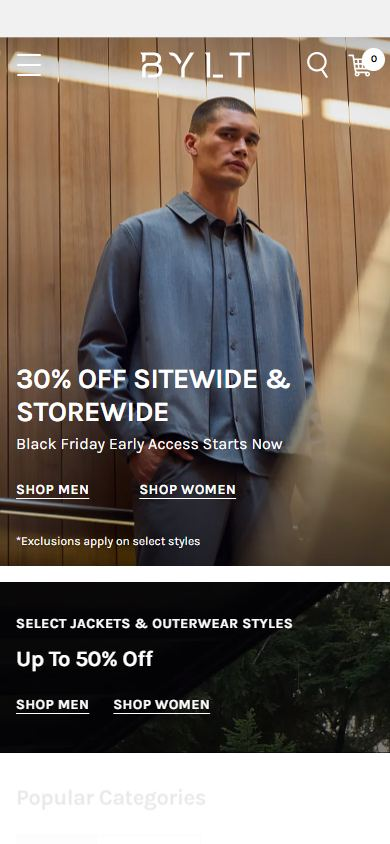
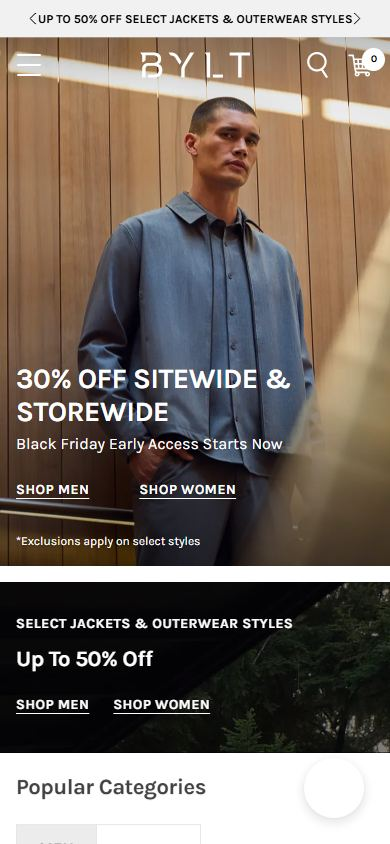
Publish 3 live forensic audit teaser(s)

Changed region(s): [[0.0923, 0.0, 0.9231, 0.0308], [0.0308, 0.9242, 0.5231, 0.955]]

diff --git a/audits/chubbiesshorts-com.html b/audits/chubbiesshorts-com.html
@@ -15,19 +15,19 @@
     </div>
 
     <div class="bfcm-alert">
-      <strong>Peak-Traffic Readiness Alert:</strong> Flagged on <code>chubbiesshorts.com</code> &mdash; 10 scripts • 1398ms DOM load. Fix these leaks before peak holiday traffic hits mobile checkout.
+      <strong>Peak-Traffic Readiness Alert:</strong> Flagged on <code>chubbiesshorts.com</code> &mdash; 13 scripts • 1141ms DOM load. Fix these leaks before peak holiday traffic hits mobile checkout.
     </div>
 
     <h1 class="audit-title">Forensic Conversion &amp; Speed Audit: chubbiesshorts.com</h1>
-    <p class="audit-subtitle">Target URL: <a href="https://www.chubbiesshorts.com/" target="_blank" rel="noopener">https://www.chubbiesshorts.com/</a> &bull; HTTP 200 &bull; Readiness Score: <strong class="audit-score">87/100</strong></p>
+    <p class="audit-subtitle">Target URL: <a href="https://www.chubbiesshorts.com/" target="_blank" rel="noopener">https://www.chubbiesshorts.com/</a> &bull; HTTP 200 &bull; Readiness Score: <strong class="audit-score">86/100</strong></p>
 
     <div class="audit-stats-grid">
-      <div class="audit-stat"><div class="audit-stat-k">DOM Content Loaded</div><div class="audit-stat-v">1398 ms</div></div>
-      <div class="audit-stat"><div class="audit-stat-k">External Scripts</div><div class="audit-stat-v">10</div></div>
+      <div class="audit-stat"><div class="audit-stat-k">DOM Content Loaded</div><div class="audit-stat-v">1141 ms</div></div>
+      <div class="audit-stat"><div class="audit-stat-k">External Scripts</div><div class="audit-stat-v">13</div></div>
       <div class="audit-stat"><div class="audit-stat-k">3rd-Party Hosts</div><div class="audit-stat-v">15</div></div>
-      <div class="audit-stat"><div class="audit-stat-k">Measured Payload</div><div class="audit-stat-v">53895 KB</div></div>
+      <div class="audit-stat"><div class="audit-stat-k">Measured Payload</div><div class="audit-stat-v">54682 KB</div></div>
       <div class="audit-stat"><div class="audit-stat-k">JSON-LD Schemas</div><div class="audit-stat-v">1</div></div>
-      <div class="audit-stat"><div class="audit-stat-k">Broken / No-Alt Imgs</div><div class="audit-stat-v">0 / 17</div></div>
+      <div class="audit-stat"><div class="audit-stat-k">Broken / No-Alt Imgs</div><div class="audit-stat-v">0 / 22</div></div>
       <div class="audit-stat"><div class="audit-stat-k">Mobile Overflow (390px)</div><div class="audit-stat-v">0 px</div></div>
       <div class="audit-stat"><div class="audit-stat-k">Stack Detected</div><div class="audit-stat-v">Shopify</div></div>
     </div>
@@ -35,9 +35,9 @@
     <div class="audit-card">
       <h2 class="audit-card-title">Top 3 Verified Findings (Measured in Chromium)</h2>
       <ol class="audit-findings-list">
-        <li>Script &amp; Third-Party Bloat: Measured 10 external scripts across 15 third-party domains (53895 KB transferred), extending DOM load to 1398 ms.</li>
-        <li>Media &amp; Accessibility Gaps: 0 broken image(s) (naturalWidth=0) and 17 image(s) without descriptive alt text detected across 37 DOM images.</li>
-        <li>Render Timing Opportunity: TTFB measured at 547 ms with 1900 ms full load; deferring non-critical embeds and hardening canonical/schema tags reduces checkout drop-off.</li>
+        <li>Script &amp; Third-Party Bloat: Measured 13 external scripts across 15 third-party domains (54682 KB transferred), extending DOM load to 1141 ms.</li>
+        <li>Media &amp; Accessibility Gaps: 0 broken image(s) (naturalWidth=0) and 22 image(s) without descriptive alt text detected across 43 DOM images.</li>
+        <li>Render Timing Opportunity: TTFB measured at 497 ms with 1550 ms full load; deferring non-critical embeds and hardening canonical/schema tags reduces checkout drop-off.</li>
       </ol>
       <p class="audit-quickwin"><strong>Fastest Engineering Win:</strong> Defer or inline non-critical third-party scripts and verify Product/Organization JSON-LD + image alt tags.</p>
     </div>
@@ -47,7 +47,7 @@
       <p class="audit-quickwin">Apply this verified snippet right away &mdash; zero strings attached:</p>
       <pre class="code-preview"><code>/* Free Instant Fix #1 for chubbiesshorts.com: Safe image &amp; CLS guard */
 img { max-width: 100%; height: auto; }
-/* Audit heavy scripts (10 detected) and move non-critical embeds to defer */</code></pre>
+/* Audit heavy scripts (13 detected) and move non-critical embeds to defer */</code></pre>
     </div>
 
     <div class="audit-card">

diff --git a/audits/byltbasics-com.html b/audits/byltbasics-com.html
@@ -15,17 +15,17 @@
     </div>
 
     <div class="bfcm-alert">
-      <strong>Peak-Traffic Readiness Alert:</strong> Flagged on <code>byltbasics.com</code> &mdash; 23 scripts • 1816ms DOM load. Fix these leaks before peak holiday traffic hits mobile checkout.
+      <strong>Peak-Traffic Readiness Alert:</strong> Flagged on <code>byltbasics.com</code> &mdash; 2038ms DOM load. Fix these leaks before peak holiday traffic hits mobile checkout.
     </div>
 
     <h1 class="audit-title">Forensic Conversion &amp; Speed Audit: byltbasics.com</h1>
-    <p class="audit-subtitle">Target URL: <a href="https://byltbasics.com/" target="_blank" rel="noopener">https://byltbasics.com/</a> &bull; HTTP 200 &bull; Readiness Score: <strong class="audit-score">81/100</strong></p>
+    <p class="audit-subtitle">Target URL: <a href="https://byltbasics.com/" target="_blank" rel="noopener">https://byltbasics.com/</a> &bull; HTTP 200 &bull; Readiness Score: <strong class="audit-score">82/100</strong></p>
 
     <div class="audit-stats-grid">
-      <div class="audit-stat"><div class="audit-stat-k">DOM Content Loaded</div><div class="audit-stat-v">1816 ms</div></div>
-      <div class="audit-stat"><div class="audit-stat-k">External Scripts</div><div class="audit-stat-v">23</div></div>
-      <div class="audit-stat"><div class="audit-stat-k">3rd-Party Hosts</div><div class="audit-stat-v">30</div></div>
-      <div class="audit-stat"><div class="audit-stat-k">Measured Payload</div><div class="audit-stat-v">47786 KB</div></div>
+      <div class="audit-stat"><div class="audit-stat-k">DOM Content Loaded</div><div class="audit-stat-v">2038 ms</div></div>
+      <div class="audit-stat"><div class="audit-stat-k">External Scripts</div><div class="audit-stat-v">21</div></div>
+      <div class="audit-stat"><div class="audit-stat-k">3rd-Party Hosts</div><div class="audit-stat-v">40</div></div>
+      <div class="audit-stat"><div class="audit-stat-k">Measured Payload</div><div class="audit-stat-v">40680 KB</div></div>
       <div class="audit-stat"><div class="audit-stat-k">JSON-LD Schemas</div><div class="audit-stat-v">2</div></div>
       <div class="audit-stat"><div class="audit-stat-k">Broken / No-Alt Imgs</div><div class="audit-stat-v">0 / 7</div></div>
       <div class="audit-stat"><div class="audit-stat-k">Mobile Overflow (390px)</div><div class="audit-stat-v">0 px</div></div>
@@ -35,11 +35,11 @@
     <div class="audit-card">
       <h2 class="audit-card-title">Top 3 Verified Findings (Measured in Chromium)</h2>
       <ol class="audit-findings-list">
-        <li>Script &amp; Third-Party Bloat: Measured 23 external scripts across 30 third-party domains (47786 KB transferred), extending DOM load to 1816 ms.</li>
+        <li>Script &amp; Third-Party Bloat: Measured 21 external scripts across 40 third-party domains (40680 KB transferred), extending DOM load to 2038 ms.</li>
         <li>Media &amp; Accessibility Gaps: 0 broken image(s) (naturalWidth=0) and 7 image(s) without descriptive alt text detected across 16 DOM images.</li>
-        <li>Render Timing Opportunity: TTFB measured at 1164 ms with 1816 ms full load; deferring non-critical embeds and hardening canonical/schema tags reduces checkout drop-off.</li>
+        <li>Render Timing Opportunity: TTFB measured at 1313 ms with 2038 ms full load; deferring non-critical embeds and hardening canonical/schema tags reduces checkout drop-off.</li>
       </ol>
-      <p class="audit-quickwin"><strong>Fastest Engineering Win:</strong> Defer or inline config.gorgias.chat and verify Product/Organization JSON-LD + image alt tags.</p>
+      <p class="audit-quickwin"><strong>Fastest Engineering Win:</strong> Defer or inline config.gorgias.chat, assets.gorgias.chat and verify Product/Organization JSON-LD + image alt tags.</p>
     </div>
 
     <div class="audit-card">
@@ -47,7 +47,7 @@
       <p class="audit-quickwin">Apply this verified snippet right away &mdash; zero strings attached:</p>
       <pre class="code-preview"><code>/* Free Instant Fix #1 for byltbasics.com: Safe image &amp; CLS guard */
 img { max-width: 100%; height: auto; }
-/* Audit heavy scripts (23 detected) and move non-critical embeds to defer */</code></pre>
+/* Audit heavy scripts (21 detected) and move non-critical embeds to defer */</code></pre>
     </div>
 
     <div class="audit-card">

diff --git a/audits/tentree-com.html b/audits/tentree-com.html
@@ -15,17 +15,17 @@
     </div>
 
     <div class="bfcm-alert">
-      <strong>Peak-Traffic Readiness Alert:</strong> Flagged on <code>tentree.com</code> &mdash; 63 external scripts • 2374ms DOM load • 0 JSON-LD schemas. Fix these leaks before peak holiday traffic hits mobile checkout.
+      <strong>Peak-Traffic Readiness Alert:</strong> Flagged on <code>tentree.com</code> &mdash; 66 external scripts • 2019ms DOM load • 0 JSON-LD schemas. Fix these leaks before peak holiday traffic hits mobile checkout.
     </div>
 
     <h1 class="audit-title">Forensic Conversion &amp; Speed Audit: tentree.com</h1>
     <p class="audit-subtitle">Target URL: <a href="https://www.tentree.com/" target="_blank" rel="noopener">https://www.tentree.com/</a> &bull; HTTP 200 &bull; Readiness Score: <strong class="audit-score">67/100</strong></p>
 
     <div class="audit-stats-grid">
-      <div class="audit-stat"><div class="audit-stat-k">DOM Content Loaded</div><div class="audit-stat-v">2374 ms</div></div>
-      <div class="audit-stat"><div class="audit-stat-k">External Scripts</div><div class="audit-stat-v">63</div></div>
+      <div class="audit-stat"><div class="audit-stat-k">DOM Content Loaded</div><div class="audit-stat-v">2019 ms</div></div>
+      <div class="audit-stat"><div class="audit-stat-k">External Scripts</div><div class="audit-stat-v">66</div></div>
       <div class="audit-stat"><div class="audit-stat-k">3rd-Party Hosts</div><div class="audit-stat-v">41</div></div>
-      <div class="audit-stat"><div class="audit-stat-k">Measured Payload</div><div class="audit-stat-v">4182 KB</div></div>
+      <div class="audit-stat"><div class="audit-stat-k">Measured Payload</div><div class="audit-stat-v">4196 KB</div></div>
       <div class="audit-stat"><div class="audit-stat-k">JSON-LD Schemas</div><div class="audit-stat-v">0</div></div>
       <div class="audit-stat"><div class="audit-stat-k">Broken / No-Alt Imgs</div><div class="audit-stat-v">0 / 56</div></div>
       <div class="audit-stat"><div class="audit-stat-k">Mobile Overflow (390px)</div><div class="audit-stat-v">0 px</div></div>
@@ -35,7 +35,7 @@
     <div class="audit-card">
       <h2 class="audit-card-title">Top 3 Verified Findings (Measured in Chromium)</h2>
       <ol class="audit-findings-list">
-        <li>Script &amp; Third-Party Bloat: Measured 63 external scripts across 41 third-party domains (4182 KB transferred), extending DOM load to 2374 ms.</li>
+        <li>Script &amp; Third-Party Bloat: Measured 66 external scripts across 41 third-party domains (4196 KB transferred), extending DOM load to 2019 ms.</li>
         <li>Media &amp; Accessibility Gaps: 0 broken image(s) (naturalWidth=0) and 56 image(s) without descriptive alt text detected across 81 DOM images.</li>
         <li>Structured Data / SEO Signal Gap: jsonLdCount=0, metaDescription=161 chars, H1 count=0.</li>
       </ol>

diff --git a/index.html b/index.html
@@ -374,20 +374,20 @@ html, body { max-width: 100%; overflow-x: clip; }
         <div class="audit-item">
           <div class="audit-item-head">
             <strong>byltbasics.com</strong>
-            <span class="tag">81/100</span>
+            <span class="tag">82/100</span>
           </div>
           <p class="audit-item-meta">
-            DOM 1816ms &bull; 23 scripts &bull; 47786 KB &bull; 2 schemas
+            DOM 2038ms &bull; 21 scripts &bull; 40680 KB &bull; 2 schemas
           </p>
           <a class="audit-item-link" href="audits/byltbasics-com.html">Inspect Live Teaser &rarr;</a>
         </div>
         <div class="audit-item">
           <div class="audit-item-head">
             <strong>chubbiesshorts.com</strong>
-            <span class="tag">87/100</span>
+            <span class="tag">86/100</span>
           </div>
           <p class="audit-item-meta">
-            DOM 1398ms &bull; 10 scripts &bull; 53895 KB &bull; 1 schemas
+            DOM 1141ms &bull; 13 scripts &bull; 54682 KB &bull; 1 schemas
           </p>
           <a class="audit-item-link" href="audits/chubbiesshorts-com.html">Inspect Live Teaser &rarr;</a>
         </div>
@@ -397,7 +397,7 @@ html, body { max-width: 100%; overflow-x: clip; }
             <span class="tag">67/100</span>
           </div>
           <p class="audit-item-meta">
-            DOM 2374ms &bull; 63 scripts &bull; 4182 KB &bull; 0 schemas
+            DOM 2019ms &bull; 66 scripts &bull; 4196 KB &bull; 0 schemas
           </p>
           <a class="audit-item-link" href="audits/tentree-com.html">Inspect Live Teaser &rarr;</a>
         </div>
